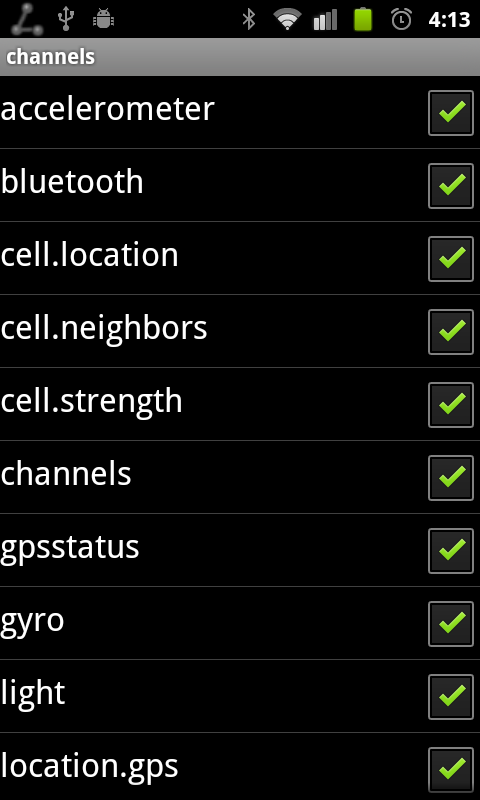
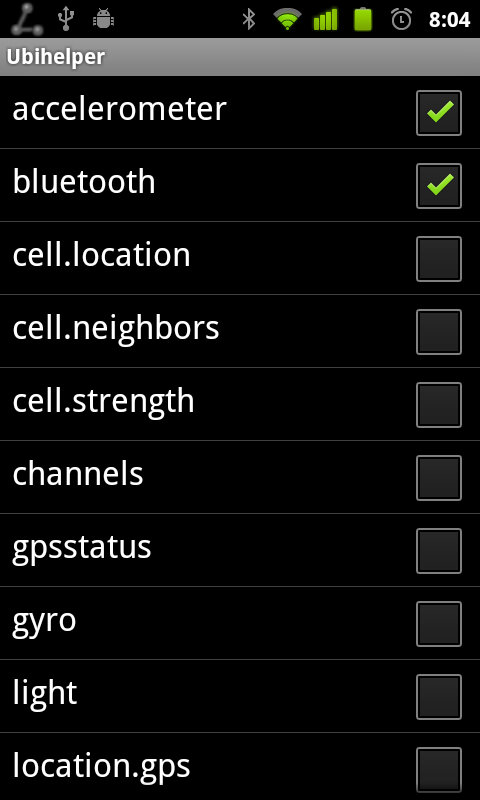
some tidying up and minor fixes to logging

diff --git a/gen/uk/ac/horizon/ubihelper/R.java b/gen/uk/ac/horizon/ubihelper/R.java
@@ -17,53 +17,54 @@ public final class R {
         public static final int service_notification_icon=0x7f020003;
     }
     public static final class id {
-        public static final int about_option=0x7f08002c;
+        public static final int about_option=0x7f08002d;
         public static final int about_version_text=0x7f080000;
         public static final int channel_list=0x7f080001;
         public static final int channel_value_name=0x7f080002;
         public static final int channel_value_value=0x7f080003;
-        public static final int channels_option=0x7f08002b;
-        public static final int linearLayout1=0x7f080022;
+        public static final int channels_option=0x7f08002c;
+        public static final int linearLayout1=0x7f080023;
         public static final int log_channel_item_enabled=0x7f080004;
         public static final int log_channel_item_name=0x7f080005;
-        public static final int manualadd_option=0x7f08002e;
-        public static final int peer_info_detail=0x7f08001c;
-        public static final int peer_info_enabled=0x7f08000d;
-        public static final int peer_info_id=0x7f080009;
-        public static final int peer_info_ip=0x7f08000b;
-        public static final int peer_info_ip_timetamp=0x7f08000c;
-        public static final int peer_info_name=0x7f080008;
-        public static final int peer_info_port=0x7f08001e;
-        public static final int peer_info_sourceip=0x7f08001d;
-        public static final int peer_info_state=0x7f08001b;
-        public static final int peer_info_trusted=0x7f08000a;
-        public static final int peer_item_description=0x7f080010;
-        public static final int peer_item_enabled=0x7f08000e;
-        public static final int peer_item_name=0x7f08000f;
-        public static final int peer_request_accept=0x7f080019;
-        public static final int peer_request_list=0x7f080020;
-        public static final int peer_request_name=0x7f080017;
-        public static final int peer_request_pin=0x7f080018;
-        public static final int peer_request_reject=0x7f08001a;
-        public static final int peer_search_list=0x7f080021;
-        public static final int peermanualadd_cancel=0x7f080016;
-        public static final int peermanualadd_host=0x7f080011;
-        public static final int peermanualadd_local_host=0x7f080013;
-        public static final int peermanualadd_local_port=0x7f080014;
-        public static final int peermanualadd_ok=0x7f080015;
-        public static final int peermanualadd_port=0x7f080012;
-        public static final int search_peers_parent=0x7f08001f;
-        public static final int test_button=0x7f080006;
-        public static final int test_option=0x7f08002d;
-        public static final int test_text=0x7f080007;
-        public static final int wifi_gateway_text=0x7f080029;
-        public static final int wifi_ip2_text=0x7f080027;
-        public static final int wifi_ip_text=0x7f080025;
-        public static final int wifi_mac_text=0x7f080026;
-        public static final int wifi_netmask_text=0x7f080028;
-        public static final int wifi_ssid_text=0x7f080024;
-        public static final int wifi_status_text=0x7f080023;
-        public static final int wifistatus_option=0x7f08002a;
+        public static final int log_channel_list=0x7f080006;
+        public static final int manualadd_option=0x7f08002f;
+        public static final int peer_info_detail=0x7f08001d;
+        public static final int peer_info_enabled=0x7f08000e;
+        public static final int peer_info_id=0x7f08000a;
+        public static final int peer_info_ip=0x7f08000c;
+        public static final int peer_info_ip_timetamp=0x7f08000d;
+        public static final int peer_info_name=0x7f080009;
+        public static final int peer_info_port=0x7f08001f;
+        public static final int peer_info_sourceip=0x7f08001e;
+        public static final int peer_info_state=0x7f08001c;
+        public static final int peer_info_trusted=0x7f08000b;
+        public static final int peer_item_description=0x7f080011;
+        public static final int peer_item_enabled=0x7f08000f;
+        public static final int peer_item_name=0x7f080010;
+        public static final int peer_request_accept=0x7f08001a;
+        public static final int peer_request_list=0x7f080021;
+        public static final int peer_request_name=0x7f080018;
+        public static final int peer_request_pin=0x7f080019;
+        public static final int peer_request_reject=0x7f08001b;
+        public static final int peer_search_list=0x7f080022;
+        public static final int peermanualadd_cancel=0x7f080017;
+        public static final int peermanualadd_host=0x7f080012;
+        public static final int peermanualadd_local_host=0x7f080014;
+        public static final int peermanualadd_local_port=0x7f080015;
+        public static final int peermanualadd_ok=0x7f080016;
+        public static final int peermanualadd_port=0x7f080013;
+        public static final int search_peers_parent=0x7f080020;
+        public static final int test_button=0x7f080007;
+        public static final int test_option=0x7f08002e;
+        public static final int test_text=0x7f080008;
+        public static final int wifi_gateway_text=0x7f08002a;
+        public static final int wifi_ip2_text=0x7f080028;
+        public static final int wifi_ip_text=0x7f080026;
+        public static final int wifi_mac_text=0x7f080027;
+        public static final int wifi_netmask_text=0x7f080029;
+        public static final int wifi_ssid_text=0x7f080025;
+        public static final int wifi_status_text=0x7f080024;
+        public static final int wifistatus_option=0x7f08002b;
     }
     public static final class layout {
         public static final int about=0x7f030000;
@@ -73,15 +74,16 @@ public final class R {
         public static final int channel_peer_list_item=0x7f030004;
         public static final int channel_value=0x7f030005;
         public static final int log_channel_item=0x7f030006;
-        public static final int main=0x7f030007;
-        public static final int peer_info=0x7f030008;
-        public static final int peer_item=0x7f030009;
-        public static final int peer_manual_add=0x7f03000a;
-        public static final int peer_request=0x7f03000b;
-        public static final int peer_request_info=0x7f03000c;
-        public static final int search_peer_item=0x7f03000d;
-        public static final int search_peers=0x7f03000e;
-        public static final int wifistatus=0x7f03000f;
+        public static final int log_channel_list=0x7f030007;
+        public static final int main=0x7f030008;
+        public static final int peer_info=0x7f030009;
+        public static final int peer_item=0x7f03000a;
+        public static final int peer_manual_add=0x7f03000b;
+        public static final int peer_request=0x7f03000c;
+        public static final int peer_request_info=0x7f03000d;
+        public static final int search_peer_item=0x7f03000e;
+        public static final int search_peers=0x7f03000f;
+        public static final int wifistatus=0x7f030010;
     }
     public static final class menu {
         public static final int mainpreferencesmenu=0x7f070000;

diff --git a/src/uk/ac/horizon/ubihelper/service/LogManager.java b/src/uk/ac/horizon/ubihelper/service/LogManager.java
@@ -73,7 +73,7 @@ public class LogManager {
 	public static final String FILES_DIR = "logs";
 	private static final int DEFAULT_PERIOD = 1000;
 	private static final double MIN_PERIOD_CHANGE = 0.001;
-	private static final long MIN_NEW_FILE_SIZE = 100000;
+	public static final int MIN_NEW_FILE_SIZE = 10000;
 	private static final int BUFFER_SIZE = 10000;
 	private static final int DEFAULT_FLUSH_DELAY = 1000;
 
@@ -163,10 +163,16 @@ public class LogManager {
 		return val;
 	}
 	private int getMaxFileSize() {
-		return getIntPreference(LOG_MAX_FILE_SIZE, 0);
+		int size = getIntPreference(LOG_MAX_FILE_SIZE, 0);
+		if (size<MIN_NEW_FILE_SIZE)
+			size = MIN_NEW_FILE_SIZE;
+		return size;
 	}
 	private int getMaxCacheSize() {
-		return getIntPreference(LOG_MAX_CACHE_SIZE, 0);
+		int size = getIntPreference(LOG_MAX_CACHE_SIZE, 0);
+		if (size<MIN_NEW_FILE_SIZE)
+			size = MIN_NEW_FILE_SIZE;
+		return size;
 	}
 	// called from Service when prefs changed
 	public void checkPreferences(String changed) {
@@ -238,7 +244,6 @@ public class LogManager {
 
 	private synchronized void checkSubscriptions() {
 		float period = getLogPeriod();
-		// TODO Auto-generated method stub
 		String cns[] = getChannels();
 		TreeSet<String> ecns = new TreeSet<String>();
 		ecns.addAll(subscriptions.keySet());
@@ -307,7 +312,6 @@ public class LogManager {
 			Log.d(TAG,"ignore logValue (not logging) "+channelName+"="+value);
 			return;
 		}
-		// TODO Auto-generated method stub
 		Log.d(TAG,"logValue "+channelName+"="+value);
 
 		// marshall
@@ -320,7 +324,6 @@ public class LogManager {
 			lval.put("value", value);
 			data = lval.toString().getBytes("UTF-8");
 		} catch (Exception e) {
-			// TODO Auto-generated catch block
 			Log.e(TAG,"marshalling log value: "+e);
 			return;
 		}		
@@ -415,6 +418,8 @@ public class LogManager {
 		try {
 			OutputStream os = new FileOutputStream(currentLogFile);
 			currentLogStream = new BufferedOutputStream(os, BUFFER_SIZE);
+			cacheFiles.add(currentLogFile);
+			currentFileLength = 0;
 		}
 		catch (Exception e) {
 			Log.w(TAG,"Error opening log file "+currentLogFile+": "+e);
@@ -439,11 +444,12 @@ public class LogManager {
 	private static SimpleDateFormat logDateFormat = new SimpleDateFormat("yyyy-MM-dd_HHmmss-SSS");
 	
 	private void signalError(String error) {
+		// force re-check...
+		currentLogDir = null;
 		if (errorNotificationVisible && error.equals(errorNotificationText))
 			return;
 		errorNotificationText = error;
 		
-		// TODO Auto-generated method stub
 		int icon = R.drawable.log_error_notification_icon;
 		CharSequence tickerText = error;
 		long when = System.currentTimeMillis();

diff --git a/src/uk/ac/horizon/ubihelper/ui/LoggingPreferences.java b/src/uk/ac/horizon/ubihelper/ui/LoggingPreferences.java
@@ -69,16 +69,7 @@ public class LoggingPreferences extends PreferenceActivity {
         logMaxCacheSize.getEditText().setInputType(InputType.TYPE_CLASS_NUMBER);
         updateLogMaxCacheSizeSummary();
         //logDirectory = getPreferenceScreen().findPreference(LOG_DIRECTORY);
-        //updateLogDirectory();
-        Preference logChannels = getPreferenceScreen().findPreference(LogManager.LOG_CHANNELS);
-        logChannels.setOnPreferenceClickListener(new OnPreferenceClickListener() {
-			public boolean onPreferenceClick(Preference p) {
-				Intent i = LoggingChannelListActivity.getStartActivityIntent(LoggingPreferences.this);
-				startActivity(i);
-				return true;
-			}
-        });
-        
+        //updateLogDirectory();        
 	}
 
 //	private void updateLogDirectory() {
@@ -96,10 +87,10 @@ public class LoggingPreferences extends PreferenceActivity {
 		logFilePrefix.setSummary(logFilePrefix.getText());
 	}
 	private void updateLogMaxFileSizeSummary() {
-		logMaxFileSize.setSummary(logMaxFileSize.getText()+" byes");
+		logMaxFileSize.setSummary(logMaxFileSize.getText()+" bytes");
 	}
 	private void updateLogMaxCacheSizeSummary() {
-		logMaxCacheSize.setSummary(logMaxCacheSize.getText()+" byes");
+		logMaxCacheSize.setSummary(logMaxCacheSize.getText()+" bytes");
 	}
 
 	/** preference change listener */

diff --git a/src/uk/ac/horizon/ubihelper/ui/LoggingChannelListActivity.java b/src/uk/ac/horizon/ubihelper/ui/LoggingChannelListActivity.java
@@ -60,19 +60,23 @@ public class LoggingChannelListActivity extends ChannelViewActivity {
 	
 	public static Intent getStartActivityIntent(Context context) {
 		Intent i = new Intent(context, LoggingChannelListActivity.class);
-		i.putExtra(BroadcastIntentSubscription.EXTRA_NAME, ChannelManager.CHANNEL_CHANNELS);
+	//	i.putExtra(BroadcastIntentSubscription.EXTRA_NAME, ChannelManager.CHANNEL_CHANNELS);
 		return i;
 	}
 	
+	@Override
+	protected String getChannelName() {
+		return ChannelManager.CHANNEL_CHANNELS;
+	}
+
 	/* (non-Javadoc)
 	 * @see android.app.Activity#onCreate(android.os.Bundle)
 	 */
 	@Override
 	protected void onCreate(Bundle savedInstanceState) {
 		super.onCreate(savedInstanceState);
-		setTitle(getIntent().getExtras().getString(BroadcastIntentSubscription.EXTRA_NAME));
-		setContentView(R.layout.channel_list);
-		listView = (ListView)findViewById(R.id.channel_list);
+		setContentView(R.layout.log_channel_list);
+		listView = (ListView)findViewById(R.id.log_channel_list);
 		
 		prefs = PreferenceManager.getDefaultSharedPreferences(this);
 

diff --git a/src/uk/ac/horizon/ubihelper/ui/ChannelViewActivity.java b/src/uk/ac/horizon/ubihelper/ui/ChannelViewActivity.java
@@ -43,10 +43,15 @@ public abstract class ChannelViewActivity extends Activity {
 	private Service service;
 	protected double period = 1;
 
+	/** default uses Intent EXTRA_NAME */
+	protected String getChannelName() {
+		return getIntent().getExtras().getString(BroadcastIntentSubscription.EXTRA_NAME);
+	}
+	
 	@Override
 	protected void onStart() {
 		super.onStart();
-		channelName = getIntent().getExtras().getString(BroadcastIntentSubscription.EXTRA_NAME);
+		channelName = getChannelName();
 		refresh(null);
 		IntentFilter peerChangeFilter = new IntentFilter(BroadcastIntentSubscription.ACTION_CHANNEL_NEW_VALUE);
 		registerReceiver(peerChangeListener, peerChangeFilter);
